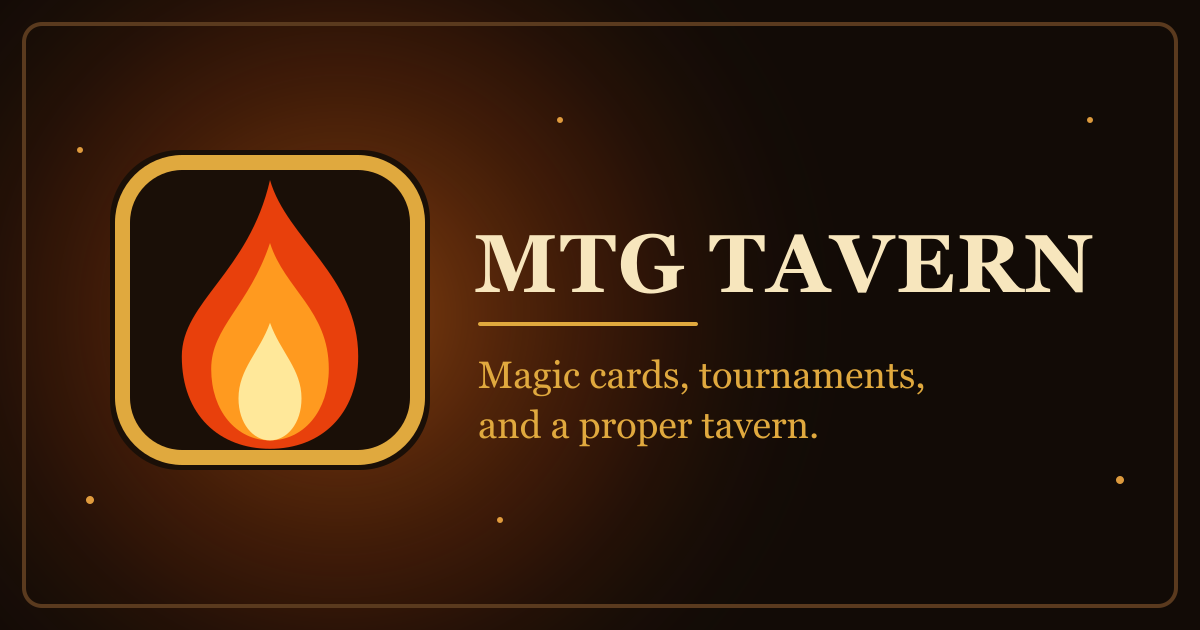
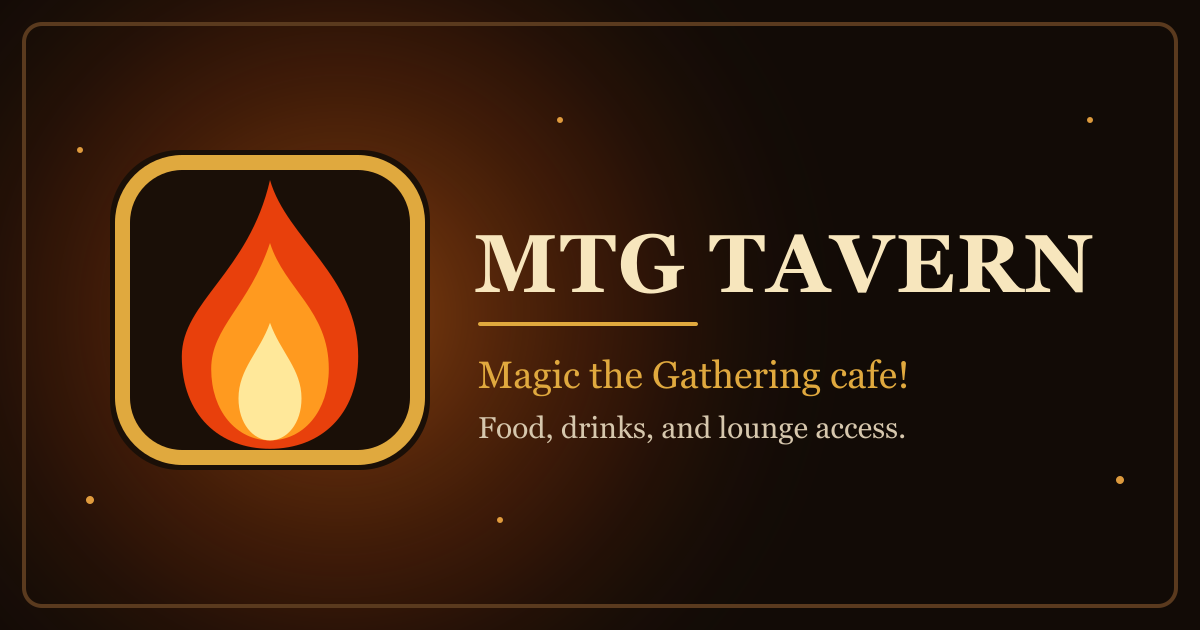
Update headline and copy to Magic the Gathering cafe
New hero headline, food/drinks/lounge wording in About and cards,
and matching preview-card text and image.

Changed region(s): [[0.4933, 0.573, 0.7708, 0.6333], [0.4008, 0.6635, 0.7708, 0.7238]]

diff --git a/src/App.jsx b/src/App.jsx
@@ -4,9 +4,9 @@ import { Embers, Flame, Hearth, Torch } from './Fire.jsx'
 // Edit this object to change the text on the page.
 const business = {
   name: 'MTG Tavern',
-  tagline: 'Magic cards, tournaments, and a proper tavern to enjoy them in.',
+  tagline: 'Magic the Gathering cafe!',
   intro:
-    'A novelty Magic: The Gathering card shop with great food, butterbeer on the menu, and room to bring your own beer. Crack a pack, trade for a single, or sit down for a tournament with prizes on the line.',
+    'An enhanced environment to play in while experiencing food, drinks, and lounge access.',
   cta: 'Visit the tavern',
   services: [
     {
@@ -19,15 +19,15 @@ const business = {
     },
     {
       title: 'Food & Drink',
-      text: 'Great food made for eating between turns. Try our butterbeer, or bring your own beer.',
+      text: 'Great food and drinks to enjoy while you play. Try our butterbeer, or bring your own beer.',
     },
     {
-      title: 'Places to Smoke',
-      text: 'Step away for a smoke without straying far from the game.',
+      title: 'Lounge Access',
+      text: 'Settle into an enhanced environment built for playing and hanging out, with places to smoke close by.',
     },
   ],
   about:
-    'MTG Tavern is a novelty Magic: The Gathering card shop built like a tavern: a place to buy cards, play games, eat well and hang out. Whether you are opening your first pack or chasing a tournament win, pull up a seat.',
+    'MTG Tavern is a Magic the Gathering cafe: an enhanced environment to play in while experiencing food, drinks, and lounge access. Pick up packs and singles, join a tournament for prizes, and make yourself at home whether you are opening your first pack or chasing a win.',
   contact: {
     email: 'mtgtaverncutortap@gmail.com',
     phone: '(714) 296-4155',

diff --git a/index.html b/index.html
@@ -7,7 +7,7 @@
     <title>MTG Tavern</title>
     <meta
       name="description"
-      content="A novelty Magic: The Gathering card shop in The Colony, Texas. Packs, singles, tournaments with prizes, great food, butterbeer, and bring-your-own-beer."
+      content="Magic the Gathering cafe in The Colony, Texas. An enhanced environment to play in while experiencing food, drinks, and lounge access."
     />
 
     <!-- Link preview cards (texts, social media). Update the URLs below when the custom domain is live. -->
@@ -16,7 +16,7 @@
     <meta property="og:title" content="MTG Tavern" />
     <meta
       property="og:description"
-      content="Magic cards, tournaments, and a proper tavern to enjoy them in. The Colony, Texas."
+      content="Magic the Gathering cafe! An enhanced environment to play in while experiencing food, drinks, and lounge access."
     />
     <meta
       property="og:url"
